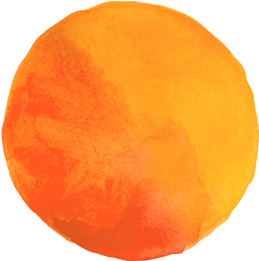
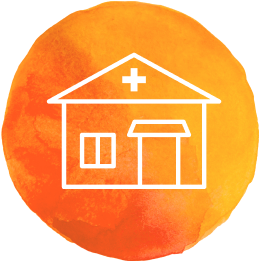
Поставил всем 2x фонам размеры.

Changed region(s): [[0.1853, 0.1839, 0.8649, 0.7356]]

diff --git a/css/style.css b/css/style.css
@@ -1444,36 +1444,44 @@ img
     .lego
     {
         background: url('../images/lego-2x.png') no-repeat;
+        background-size: 398px auto;
     }
 
     .block_with_background.girl_jumping_wrapper
     {
         background: url('../images/bg-footer-2x.jpg') no-repeat bottom center;
+        background-size: 1280px auto;
     }
 
     .teachers_section
     {
         background: url('../images/bg-teachers-2x.jpg') no-repeat bottom center;
+        background-size: 2021px auto;
+
     }
 
     .mosquito_icon
     {
         background: url('../images/icon-mosquito-2x.png') no-repeat;
+        background-size: 132px auto;
     }
 
     .first_aid_icon
     {
         background: url('../images/icon-first-aid-post-2x.png') no-repeat;
+        background-size: 130px auto;
     }
 
     .guard_icon
     {
         background: url('../images/icon-guard-2x.png') no-repeat;
+        background-size: 135px auto;
     }
 
     .map_section_spot_mobile
     {
         background: url('../images/red-spot-mobile-2x.png') no-repeat;
+        background-size: 242px auto;
     }
 }
 
@@ -2350,31 +2358,37 @@ img
     .lego
     {
         background: url('../images/wide/lego-2x.png') no-repeat;
+        background-size: 498px auto;
     }
 
     .block_with_background.girl_jumping_wrapper
     {
         background: url('../images/bg-footer-wide-2x.jpg') no-repeat bottom -236px center;
+        background-size: 2578px auto;
     }
 
     .teachers_section
     {
         background: url('../images/bg-teachers-wide-2x.jpg') no-repeat bottom center;
+        background-size: 1920px auto;
     }
 
     .mosquito_icon
     {
         background: url('../images/icon-mosquito-wide-2x.png') no-repeat;
+        background-size: 161px auto;
     }
 
     .first_aid_icon
     {
         background: url('../images/icon-first-aid-post-wide-2x.png') no-repeat;
+        background-size: 158px auto;
     }
 
     .guard_icon
     {
         background: url('../images/icon-guard-wide-2x.png') no-repeat;
+        background-size: 165px auto;
     }
 }
 
@@ -2514,6 +2528,7 @@ img
     .teachers_section
     {
         background: url('../images/bg-teachers-medium-2x.jpg');
+        background-size: 1024px auto;
     }
 }
 
@@ -3672,13 +3687,14 @@ img
 {
     .mobile_footer_wrapper
     {
-        background: url('../images/bg-footer-mobile-2x.jpg') no-repeat top -90px center;
+        background: url('../images/bg-footer-mobile-2x.jpg') no-repeat top -10px center;
         background-size: 720px auto;
     }
 
     .teachers_section
     {
         background: url('../images/bg-teachers-600-2x.jpg');
+        background-size: 720px auto;
     }
 }
 
@@ -3963,16 +3979,19 @@ img
     .mosquito_icon
     {
         background: url('../images/icon-mosquito-small-2x.png') no-repeat;
+        background-size: 116px auto;
     }
 
     .first_aid_icon
     {
         background: url('../images/icon-first-aid-post-small-2x.png') no-repeat;
+        background-size: 113px auto;
     }
 
     .guard_icon
     {
         background: url('../images/icon-guard-small-2x.png') no-repeat;
+        background-size: 118px auto;
     }
 }
 
@@ -4133,6 +4152,7 @@ img
     .teachers_section
     {
         background-image: url('../images/bg-teachers-small-2x.jpg');
+        background-size: 720px auto;
     }
 }
 
